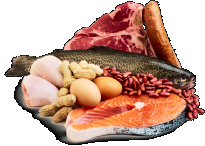
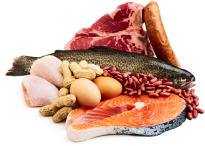
improving the quality of the photos

diff --git a/lib/src/feature/category/data/category_items.dart b/lib/src/feature/category/data/category_items.dart
@@ -3,11 +3,23 @@ import 'package:ptc_test/src/model/item.dart';
 class CategoryRepository {
   static Future<List<ShopItem>> categoryItems(
       {required final String categoryId}) async {
-    return Future.value(_categoryItems);
+    switch (categoryId) {
+      case 'fruit_and_vegetables':
+        return Future.value(vegetableAndFruitsItems);
+      case 'milk_and_eggs':
+        return Future.value(eggItems);
+      case 'drinks':
+        return Future.value(_beveragesItems);
+      case 'food_oil':
+      case 'meat':
+      case 'bread':
+      default:
+        return Future.value([]);
+    }
   }
 }
 
-List<ShopItem> _categoryItems = [
+List<ShopItem> _beveragesItems = [
   ShopItem(
     imagePath: 'assets/photo/coke_diet.png',
     name: 'Diet Coke',
@@ -15,13 +27,13 @@ List<ShopItem> _categoryItems = [
     price: 1.99,
   ),
   ShopItem(
-    imagePath: 'assets/photo/sprite_can.jpeg',
+    imagePath: 'assets/photo/sprite_can.png',
     name: 'Sprite Can',
     massOrQuantity: '325',
     price: .150,
   ),
   ShopItem(
-    imagePath: 'assets/photo/grape_juice.jpeg',
+    imagePath: 'assets/photo/grape_juice.png',
     name: 'Apple & Gape Juice',
     massOrQuantity: '2L',
     price: 5.99,
@@ -39,9 +51,39 @@ List<ShopItem> _categoryItems = [
     price: 4.99,
   ),
   ShopItem(
-    imagePath: 'assets/photo/pepsi_can.jpeg',
+    imagePath: 'assets/photo/pepsi_can.png',
     name: 'Pepsi Can',
     massOrQuantity: '330ml',
     price: 4.99,
+  ),
+];
+
+List<ShopItem> vegetableAndFruitsItems = [
+  ShopItem(
+    imagePath: 'assets/photo/peppr.png',
+    name: 'Bell Pepper Red',
+    massOrQuantity: '1kg',
+    price: 4.99,
+  ),
+  ShopItem(
+    imagePath: 'assets/photo/panana.png',
+    name: 'Organic Bananas',
+    massOrQuantity: '12kg',
+    price: 3.00,
+  ),
+  ShopItem(
+    imagePath: 'assets/photo/ginger.png',
+    name: 'Ginger',
+    massOrQuantity: '250g',
+    price: 2.99,
+  ),
+];
+
+List<ShopItem> eggItems = [
+  ShopItem(
+    imagePath: 'assets/photo/egg.png',
+    name: 'Egg Chicken Red',
+    massOrQuantity: '4pcs',
+    price: 1.99,
   ),
 ];

diff --git a/lib/src/common_widgets/buttom_navigation_bar.dart b/lib/src/common_widgets/buttom_navigation_bar.dart
@@ -33,21 +33,36 @@ class BottomNaviationBar extends StatelessWidget {
                   index: index,
                 )));
       },
-      items: const [
+      items: [
         BottomNavigationBarItem(
-            icon: Icon(Icons.shop_outlined, color: Color(0xff181725)),
+            icon: Icon(Icons.shop_outlined,
+                color: (currentIndex != 0)
+                    ? const Color(0xff181725)
+                    : const Color(0xff53b175)),
             label: 'shop'),
         BottomNavigationBarItem(
-            icon: Icon(Icons.explore_outlined, color: Color(0xff181725)),
+            icon: Icon(Icons.explore_outlined,
+                color: (currentIndex != 1)
+                    ? const Color(0xff181725)
+                    : const Color(0xff53b175)),
             label: 'Explore'),
         BottomNavigationBarItem(
-            icon: Icon(Icons.shopping_cart, color: Color(0xff181725)),
+            icon: Icon(Icons.shopping_cart,
+                color: (currentIndex != 2)
+                    ? const Color(0xff181725)
+                    : const Color(0xff53b175)),
             label: 'Cart'),
         BottomNavigationBarItem(
-            icon: Icon(Icons.favorite_outline, color: Color(0xff181725)),
+            icon: Icon(Icons.favorite_outline,
+                color: (currentIndex != 3)
+                    ? const Color(0xff181725)
+                    : const Color(0xff53b175)),
             label: 'Favorite'),
         BottomNavigationBarItem(
-            icon: Icon(Icons.person, color: Color(0xff181725)),
+            icon: Icon(Icons.person,
+                color: (currentIndex != 4)
+                    ? const Color(0xff181725)
+                    : const Color(0xff53b175)),
             label: 'Profile Account')
       ],
     );

diff --git a/lib/src/feature/category/presentation/widget/itemCard.dart b/lib/src/feature/category/presentation/widget/itemCard.dart
@@ -62,6 +62,9 @@ class ItemCard extends StatelessWidget {
                           context
                               .read<CartScreenCubit>()
                               .addItemLocal(shopItem: shopItem, amount: 1);
+                          ScaffoldMessenger.of(context).clearSnackBars();
+                          ScaffoldMessenger.of(context).showSnackBar(
+                              const SnackBar(content: Text('added To Cart')));
                         },
                         icon: Container(
                           alignment: Alignment.center,
